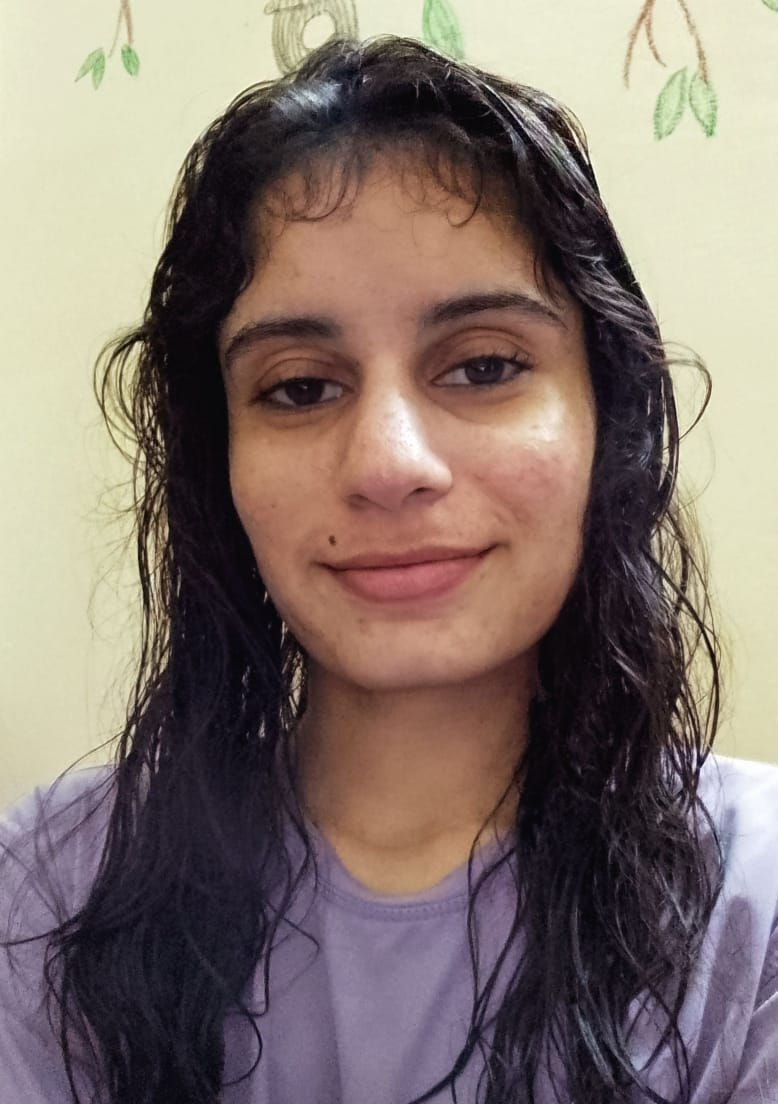
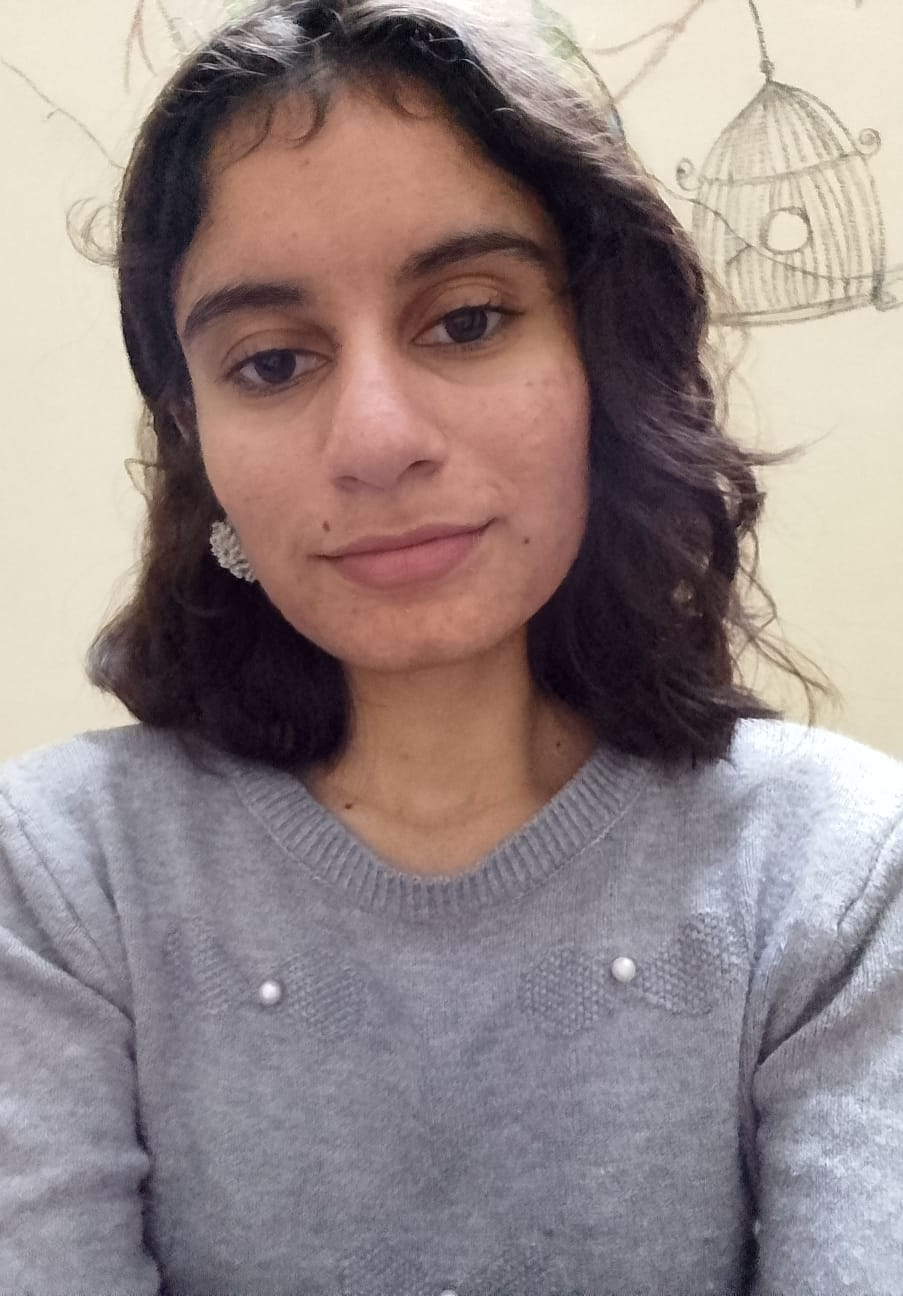
resume update

diff --git a/Portfolio/index.html b/Portfolio/index.html
@@ -17,6 +17,8 @@
         <div class="topnav" id="myTopnav">
             <a href="#hero"><b>Home</b></a>
             <a href="#projects"><b>Projects</b></a>
+            <a href="#certifications"><b>Certifications</b></a>
+            <a href="#education"><b>Education</b></a>
             <a href="#contact"><b>Contact</b></a>
         </div>
     </header>
@@ -96,11 +98,10 @@
                                 <h3>Netflix GPT</h3>
                             </div>
 
-                            <a
-                                href="https://netflixgpt-cb949.web.app/browse"><b>Web App
+                            <a href="https://netflixgpt-cb949.web.app/browse"><b>Web App
                                     Link</b></a>
-                            <a href="https://github.com/Nidhi8595/netflix-gpt"
-                                target="_blank" rel="noopener noreferrer">Github</a>
+                            <a href="https://github.com/Nidhi8595/netflix-gpt" target="_blank"
+                                rel="noopener noreferrer">Github</a>
                         </div>
                     </div>
 
@@ -111,8 +112,7 @@
                                 <h3>Weather App</h3>
                             </div>
 
-                            <a
-                                href="https://nidhi8595.github.io/Web-Development/Weather%20App/"><b>Web App
+                            <a href="https://nidhi8595.github.io/Web-Development/Weather%20App/"><b>Web App
                                     Link</b></a>
                             <a href="https://github.com/Nidhi8595/Web-Development/tree/main/Weather%20App"
                                 target="_blank" rel="noopener noreferrer">Github</a>
@@ -248,6 +248,101 @@
                                 target="_blank" rel="noopener noreferrer">Github</a>
                         </div>
                     </div>
+                </div>
+            </div>
+        </section>
+        <br>
+        <br>
+        <section id="certifications">
+            <h2>CERTIFICATIONS</h2>
+            <div class="container">
+                <div id="certifications_container">
+
+                    <div class="grid_item">
+                        <div class="card">
+                            <img src="Leetcode 50-days Badge.png" />
+                            <div class="card_content">
+                                <h3>Leetcode 50-days badge</h3>
+                            </div>
+
+                            <a href="https://leetcode.com/medal/?showImg=0&id=5770704&isLevel=false"><b> Link</b></a>
+
+                        </div>
+                    </div>
+
+                    <div class="grid_item">
+                        <div class="card">
+                            <img src="Leetcode 50-days badge 2.png" />
+                            <div class="card_content">
+                                <h3>Leetcode 50-days badge 2</h3>
+                            </div>
+
+                            <a href="https://leetcode.com/medal/?showImg=0&id=6270549&isLevel=false"><b> Link</b></a>
+
+                        </div>
+                    </div>
+
+                    <div class="grid_item">
+                        <div class="card">
+                            <img src="Leetcode.png" />
+                            <div class="card_content">
+                                <h3>Leetcode Profile</h3>
+                            </div>
+
+                            <a href="https://leetcode.com/u/Neelakshi_123/"><b> Link</b></a>
+
+                        </div>
+                    </div>
+
+                </div>
+            </div>
+        </section>
+        <br>
+        <br>
+        <section id="education">
+            <h2>EDUCATION</h2>
+            <div class="container">
+                <div id="edu_container">
+
+                    <div class="grid_item">
+                        <div class="card">
+                            <h2>BTech Computer Science</h2>
+                            <h3>2022-26</h3>
+                            <div class="card_content">
+                                <h3>Gautam Buddha University</h3>
+                            </div>
+
+                        </div>
+                    </div>
+
+                    <div class="grid_item">
+                        <div class="card">
+                            <h2>Senior Secondary, Science with CS</h2>
+                            <h3>Grade-> 92%</h3>
+                            <h3>Board-> CBSE</h3>
+                            <h3>2020-22</h3>
+
+                            <div class="card_content">
+                                <h3>DSR Modern School - Noida</h3>
+                            </div>
+
+                        </div>
+                    </div>
+
+                    <div class="grid_item">
+                        <div class="card">
+                            <h2>High School, Mathematics & CS</h2>
+                            <h3>Grade-> 90.2%</h3>
+                            <h3>Board-> ICSE</h3>
+                            <h3>2018-20</h3>
+
+                            <div class="card_content">
+                                <h3>St. Mary's Convent School Haldaur</h3>
+                            </div>
+
+                        </div>
+                    </div>
+
                 </div>
             </div>
         </section>

diff --git a/Resume/index.html b/Resume/index.html
@@ -286,6 +286,42 @@
 
     </section>
 
+    <section>
+        <h2>Certifications</h2>
+        <table>
+            <tr>
+                <td>
+                    <img src="Leetcode 50-days Badge.png" height="300px" width="200px" />
+
+                </td>
+                <td>
+                    <img src="Leetcode 50-days badge 2.png" height="300px" width="200px" />
+
+                </td>
+                <td>
+                    <img src="Leetcode.png" height="300px" width="350px" />
+                </td>
+            </tr>
+            <tr>
+
+                <td>
+                    <a href="https://leetcode.com/medal/?showImg=0&id=5770704&isLevel=false"><b>Leetcode 50-days
+                            badge</b></a>
+
+                </td>
+                <td> <a href="https://leetcode.com/medal/?showImg=0&id=6270549&isLevel=false"><b>Leetcode 50-days badge
+                            2</b></a></td>
+
+                <td>
+                    <a href="https://leetcode.com/u/Neelakshi_123/">Leetcode Profile</a>
+                </td>
+
+            </tr>
+
+        </table>
+
+    </section>
+
     <footer>
         <p>© 2024 Neelakshi. All rights reserved.</p>
     </footer>

diff --git a/Portfolio/index.css b/Portfolio/index.css
@@ -198,12 +198,54 @@ section {
     border: 3px solid cornflowerblue;
 }
 
+#education{
+    background: lightblue;
+    border: 3px solid cornflowerblue;
+}
+
+#education h2{
+    font-size: 4rem;
+    text-align: center;
+    padding: 2rem 0;
+}
+
 #projects h2 {
     font-size: 4rem;
     text-align: center;
     padding: 2rem 0;
 }
 
+#certifications{
+    background: lightblue;
+    border: 3px solid cornflowerblue;
+}
+
+#certifications h2{
+    font-size: 4rem;
+    text-align: center;
+    padding: 2rem 0;
+}
+
+#certifications_container{
+    display:flex;
+    justify-content: center;
+    gap:9rem;
+    flex-wrap: wrap;
+}
+#education .card{
+    background-color: antiquewhite;
+    padding: 5px;
+    align-items: center;
+    border:2px solid brown;
+    border-radius: 15px;
+}
+
+#edu_container{
+    display:flex;
+    justify-content: center;
+    gap:9rem;
+    flex-wrap: wrap;
+}
 .project_container {
     display: grid;
     grid-template-columns: repeat(auto-fit, minmax(320px, 1fr));
